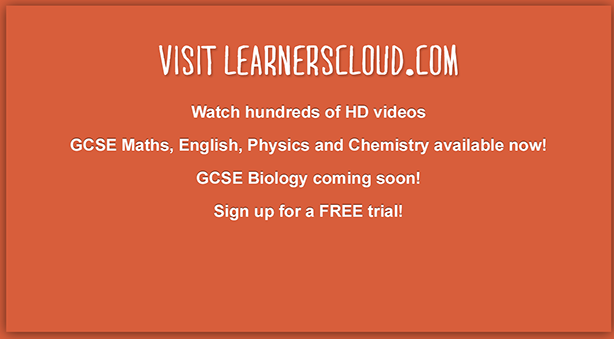
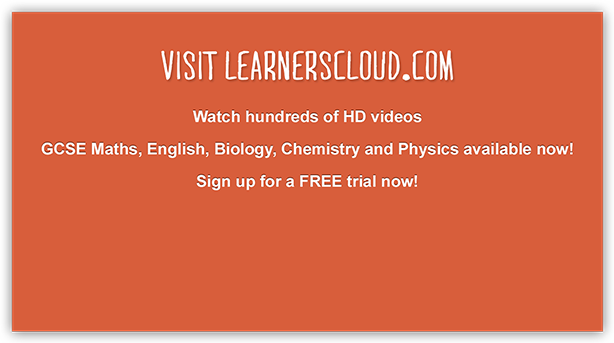
promo

diff --git a/VideoPlayer.m b/VideoPlayer.m
@@ -10,6 +10,7 @@
 #import "GANTracker.h"
 #import "EvaluatorAppDelegate.h"
 
+
 @implementation VideoPlayer
 
 @synthesize VideoFileName,ServerLocation,credential,protectionSpace,moviePlayerViewController;
@@ -17,21 +18,23 @@
 #define SCREEN_WIDTH 768
 #define SCREEN_HEIGHT 950
 
+
+
 //Old code
 /*- (void)moviePlaybackComplete:(NSNotification *)notification  {  
- 
- moviePlayerController = [notification object];  
- [[NSNotificationCenter defaultCenter] removeObserver:self  
- name:MPMoviePlayerPlaybackDidFinishNotification  
- object:moviePlayerController];  
- 
- [moviePlayerController.view removeFromSuperview];  
- [moviePlayerController release]; 
- 
- [self.navigationController popViewControllerAnimated:YES];
- 
- 
- } */ 
+	
+	moviePlayerController = [notification object];  
+	[[NSNotificationCenter defaultCenter] removeObserver:self  
+													name:MPMoviePlayerPlaybackDidFinishNotification  
+												  object:moviePlayerController];  
+	
+	[moviePlayerController.view removeFromSuperview];  
+	[moviePlayerController release]; 
+	
+	[self.navigationController popViewControllerAnimated:YES];
+	
+	
+} */ 
 
 - (void)movieFinishedCallback:(NSNotification*) notification  {  
 	
@@ -85,21 +88,26 @@
         
         if([VideoFileName isEqualToString:@"Maths"]){
             
-            ServerLocation = @"http://learnerscloud.com/iosStream/maths/MathsTtrailerv6";
+            ServerLocation = @"http://learnerscloud.com/iosStreamv2/maths/MathsTtrailerv6";
         }
         else if ([VideoFileName isEqualToString:@"English"]){
             
-            ServerLocation = @"http://learnerscloud.com/iosStream/english/EnglishTrailerv5";
+            ServerLocation = @"http://learnerscloud.com/iosStreamv2/english/EnglishTrailerv5";
             
         }
         else if ([VideoFileName isEqualToString:@"Physics"]){
             
-            ServerLocation = @"http://learnerscloud.com/iosStream/Physics/PhysicsTrailerV5";
+            ServerLocation = @"http://learnerscloud.com/iosStreamv2/Physics/PhysicsTrailerV5";
             
         }
         else if ([VideoFileName isEqualToString:@"Chemistry"]){
             
-            ServerLocation = @"http://learnerscloud.com/iosStream/Chemistry/ChemistryPromoFINAL";
+            ServerLocation = @"http://learnerscloud.com/iosStreamv2/Chemistry/ChemistryPromoFINAL";
+            
+        }
+        else if ([VideoFileName isEqualToString:@"Biology"]){
+            
+            ServerLocation = @"http://learnerscloud.com/iosStreamv2/Biology/BIO-Trailer";
             
         }
         
@@ -107,17 +115,17 @@
         //Authentication Details here
         
         NSURLCredential *credential1 = [[NSURLCredential alloc]
-                                        initWithUser:@"Theta"
-                                        password:@"Ffk7acay@#"
+                                        initWithUser:@"iosuser"
+                                        password:@"letmein2"
                                         persistence: NSURLCredentialPersistenceForSession];
         self.credential = credential1;
         
-        NSString *DomainLocation = @"learnerscloud.com";
+        NSString *DomainLocation = @"www.learnerscloud.com";
         
         NSURLProtectionSpace *protectionSpace1 = [[NSURLProtectionSpace alloc]
                                                   initWithHost: DomainLocation
-                                                  port:80
-                                                  protocol:@"http"
+                                                  port:443
+                                                  protocol:@"https"
                                                   realm: DomainLocation
                                                   authenticationMethod:NSURLAuthenticationMethodDefault];
         self.protectionSpace = protectionSpace1;
@@ -138,10 +146,10 @@
                                                  selector:@selector(movieFinishedCallback:)
                                                      name:MPMoviePlayerPlaybackDidFinishNotification
                                                    object:[moviePlayerViewController moviePlayer]];
+        
         NSError *_error = nil;
         
         [[AVAudioSession sharedInstance] setCategory: AVAudioSessionCategoryPlayback error:&_error];
-
         
         [self presentMoviePlayerViewControllerAnimated:moviePlayerViewController];
         
@@ -161,9 +169,7 @@
         [self.navigationController popViewControllerAnimated:YES];
         
     }
-	
 }
-
 
 
 - (void)viewWillDisappear:(BOOL)animated {

diff --git a/LearnersCloudSamplesVideos.m b/LearnersCloudSamplesVideos.m
@@ -64,8 +64,8 @@
 	[ImageNames addObject:@"Physics.png"];
 	[listofItems addObject:@"   Chemistry - Trailer"];
 	[ImageNames addObject:@"Chemistry.png"];
-    //	[listofItems addObject:@"French"];
-    //	[ImageNames addObject:@"French.png"];
+    [listofItems addObject:@"    Biology - Trailer"];
+    [ImageNames addObject:@"Biology.png"];
     //	[listofItems addObject:@"Batteries"];
     //	[ImageNames addObject:@"Batteries.png"];
     //	[listofItems addObject:@"The Ruined Maid"];
@@ -266,6 +266,19 @@
                 
                 
                 break;
+                
+            case 4:
+                ;
+                VideoPlayer *VP5 = [[VideoPlayer	alloc] initWithNibName:nil bundle:nil];
+                VP5.VideoFileName =@"Biology";
+                VP5.hidesBottomBarWhenPushed = YES;
+                [self.navigationController pushViewController:VP5 animated:YES];
+                [VP5 release];
+                
+                
+                
+                break;
+
                 
         }
         
